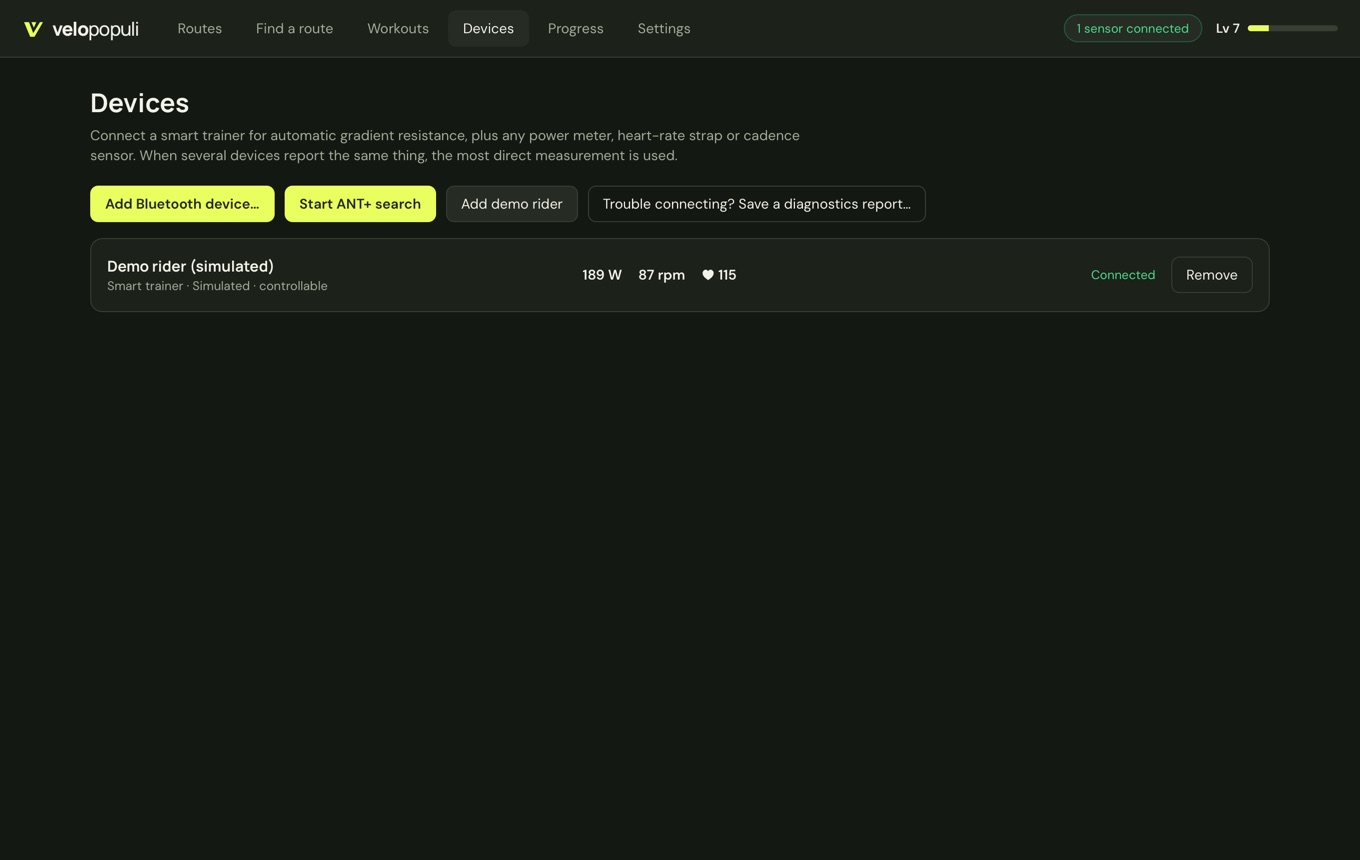
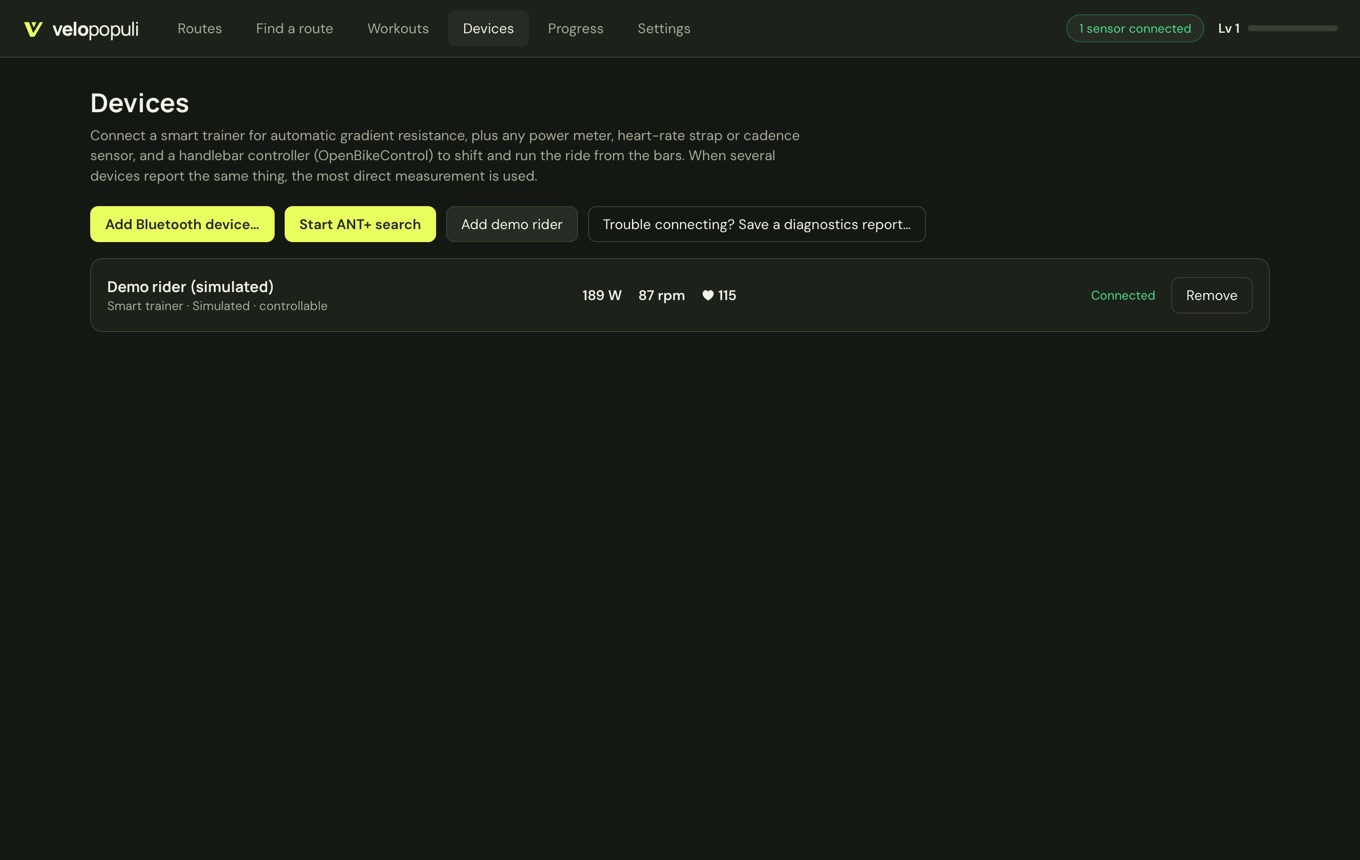
Release v0.3.9 (#66)
## What and why

Version 0.3.9, releasing handlebar controller support (OpenBikeControl,
#63 by Jonas Acker), with the pairing documentation and app text added
on top of it.

- Version bumped in `package.json` (and its lockfile's two version
fields), `tauri.conf.json`, the three `Cargo.toml`s and `Cargo.lock`,
the Arch `PKGBUILD` and HANDOFF's status heading.
- *What's new* in `packaging/RELEASE_NOTES.md` rewritten. It credits the
contributor and says controller support hasn't yet been tried with a
real controller.
- **The Devices screenshot is retaken**, because the page's intro now
mentions handlebar controllers. It appears in the README and on the
wiki's *Connecting your trainer* page. The ride screenshots are
unchanged, as the ride screen didn't change.

## Checks

#63 passed CI (tests, Linux, Windows, macOS and the Arch package) and
`npm run check` locally. This PR changes only versions, release notes
and one screenshot.

diff --git a/packaging/RELEASE_NOTES.md b/packaging/RELEASE_NOTES.md
@@ -2,10 +2,11 @@
 
 > This is an early release. The 3D world, physics, workouts and progress tracking are well tested; real trainers and sensors are only now being tried, and the Windows and Linux builds have had little use. If something doesn't work, the app's **Report a problem → Report on GitHub** builds a diagnostics report for you — please send one.
 
-## What's new in 0.3.8
+## What's new in 0.3.9
 
-- **Netting round hairpins.** On a tight bend the steel barriers used to fan apart on the outside and pile into each other on the inside. Now an orange netting fence on posts runs smoothly round the outside of the bend, and the inside is left open, as on a real climb. The straights keep their barriers and banners.
-- The hairpins picture in the README is fresh from this version.
+- **Handlebar controllers.** Controllers that speak [OpenBikeControl](https://openbikecontrol.org), an open protocol for handlebar buttons, now work over Bluetooth. Shift virtual gears, raise or lower the ERG target or workout intensity, skip a workout step, pause and switch camera without letting go of the bars. Pair one under **Devices → Add Bluetooth device…**; it shows as *Controller*. Thanks to Jonas Acker for adding it.
+- **Pairing, written up.** The README and the guides now walk through pairing a Bluetooth device step by step, and what the Devices list tells you.
+- Controller support is new and hasn't been tried with a real controller yet. If yours misbehaves, **Report a problem** in the app gathers what's needed to fix it.
 
 ## Download
 

diff --git a/HANDOFF.md b/HANDOFF.md
@@ -12,7 +12,7 @@ A free, open-source indoor-cycling app: import any GPX route, ride it on a smart
 
 It started on 2026-10-13 as "WinterMiles" (an icTrainer alternative for riding GPX routes over winter), was rewritten the same day from Electron/TypeScript into Rust + Tauri for low overhead, renamed "Velo Populi" and then "VeloPopuli" to match the website.
 
-## 2. Where it stands (November 2026, v0.3.8)
+## 2. Where it stands (November 2026, v0.3.9)
 
 **Solid and tested:** route building (GPX parsing, resampling, smoothing, climb detection), physics, ride recording and FIT export, workouts (.zwo/.erg/.mrc and built-ins), fitness maths, gamification, the 3D world (terrain with roads cut into hillsides, buildings, forests of six kinds of tree with sprites in the distance, field boundaries and hedge-banked lanes, water, the surrounding road network, bridges, tunnels, overpasses, road surface/width/markings, race barriers that lean with the road and netting round hairpins, landmarks, weather), the virtual-gear maths, diagnostics, the relay. 106 automated tests (plus two that need the network and are skipped by default), plus visual checks through the automated smoke harness (section 6).
 
